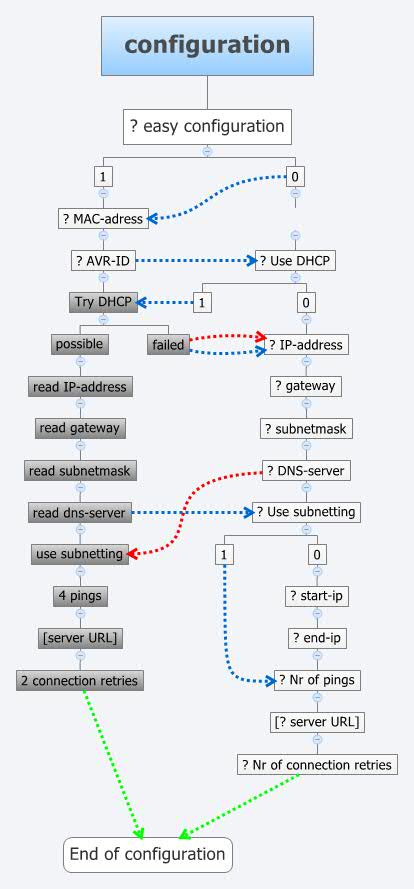
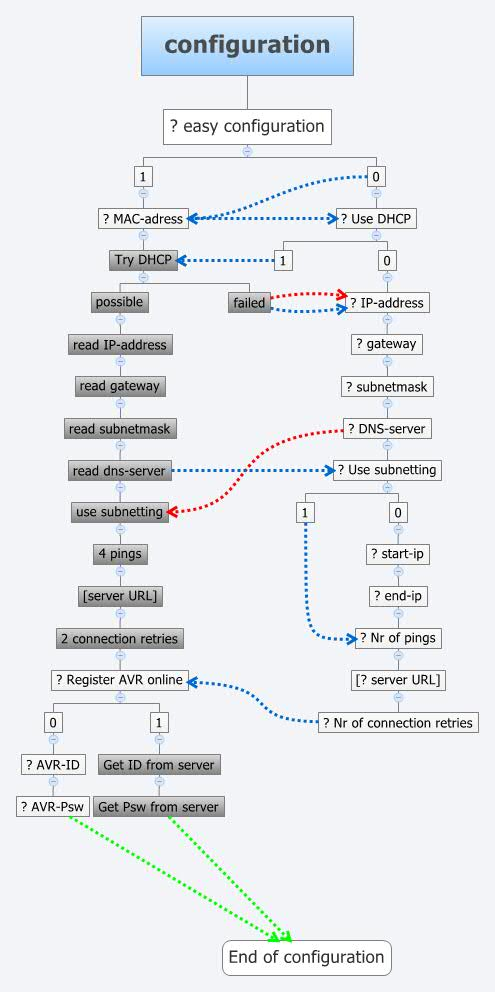
AVR-psw added; option get AVR-ID from server

Changed region(s): [[0.029, 0.0, 0.9565, 1.0], [0.4928, 0.6074, 0.6087, 0.7593], [0.4638, 0.4556, 0.5507, 0.4859]]

diff --git a/autarc_lan_user_stats/IPHelper.h b/autarc_lan_user_stats/IPHelper.h
@@ -124,7 +124,7 @@ void GetMAC(byte *MAC) {
   MAC[5] = strtol(strtok_r(NULL,":",&i), NULL, 16);
 }
 
-void send_info_to_server(byte* IP, byte* MAC, char* AVRID, byte retryHost) {
+void send_info_to_server(byte* IP, byte* MAC, char* AVRID, char* AVRpsw, byte retryHost) {
   // int result = Ethernet.maintain(); // renew DHCP
   // Serial.print(" DHCP renew:");
   // Serial.println(result); 
@@ -145,8 +145,10 @@ void send_info_to_server(byte* IP, byte* MAC, char* AVRID, byte retryHost) {
     client.print("?AVR_ID=");
     client.print(AVRID);
     Serial.println(AVRID);
+    client.print("&AVR_PSW=");
+    client.print(AVRpsw);
     
-    // HTTP String:  AVR_ID=AVR_ID&IP[]=Ip&MAC[]=Mac&IP[]=IP&MAC[]=Mac
+    // HTTP String:  AVR_ID=AVR_ID&AVR_PSW=AVRpsw&IP[]=Ip&MAC[]=Mac&IP[]=IP&MAC[]=Mac
     client.print("&IP[]=");
     client.print(IP[0]);
     client.print(".");
@@ -185,7 +187,7 @@ void send_info_to_server(byte* IP, byte* MAC, char* AVRID, byte retryHost) {
     if (tries <= retryHost) {
       tries++;
       Serial.println(F("Retry to connect..."));
-      send_info_to_server(IP, MAC, AVRID, retryHost);
+      send_info_to_server(IP, MAC, AVRID, AVRpsw, retryHost);
     } else {
       tries = 0;
     }

diff --git a/autarc_lan_user_stats/default_config.h b/autarc_lan_user_stats/default_config.h
@@ -11,6 +11,7 @@ byte dnsSrv[4];
 byte retryHost;
 
 char AVRID[6];
+char AVRpsw[7];
 
 void Load_Default_Config(void);
 
@@ -56,6 +57,13 @@ void Load_Default_Config(void) {
   dnsSrv[2] = 178;
   dnsSrv[3] = 1;
   retryHost = 2;
+  AVRpsw[0] = '1';
+  AVRpsw[1] = '2';
+  AVRpsw[2] = '3';
+  AVRpsw[3] = '4';
+  AVRpsw[4] = '5';
+  AVRpsw[5] = '6';
+  AVRpsw[6] = '\0';
 }
 
 // Simon
